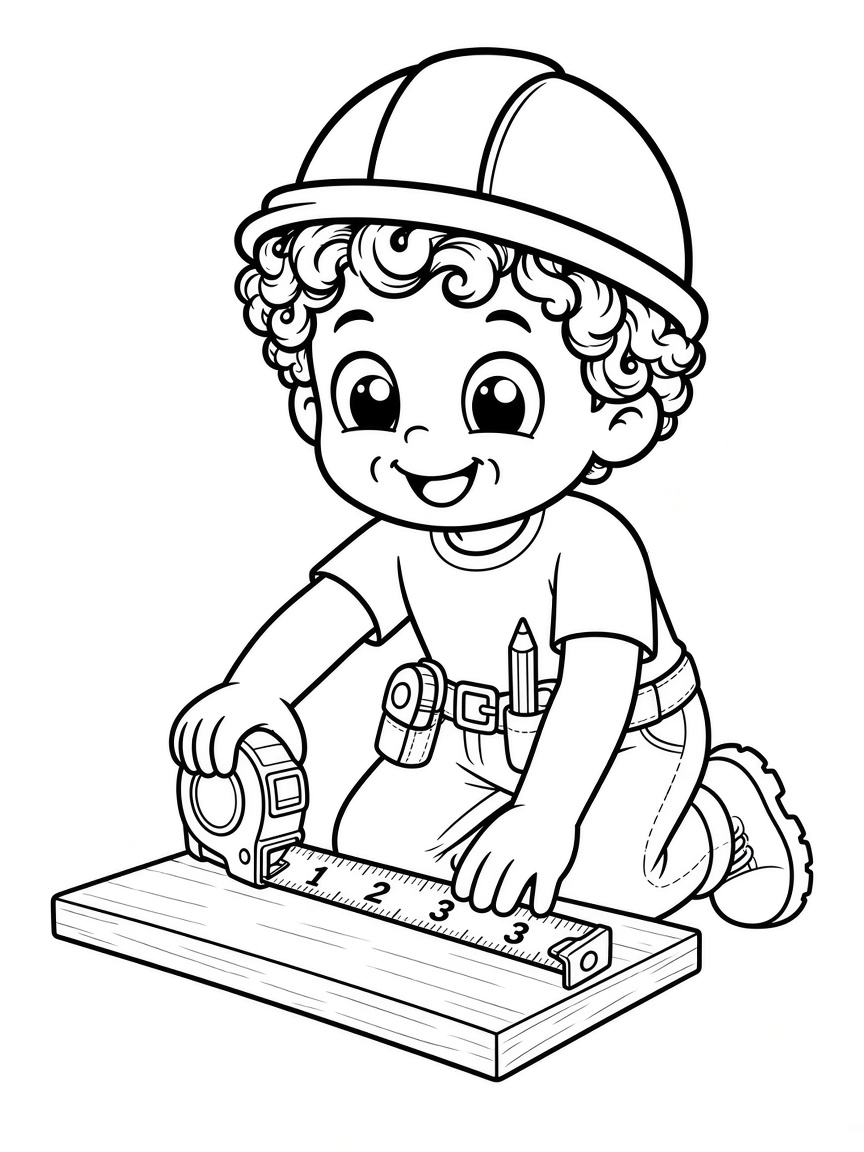
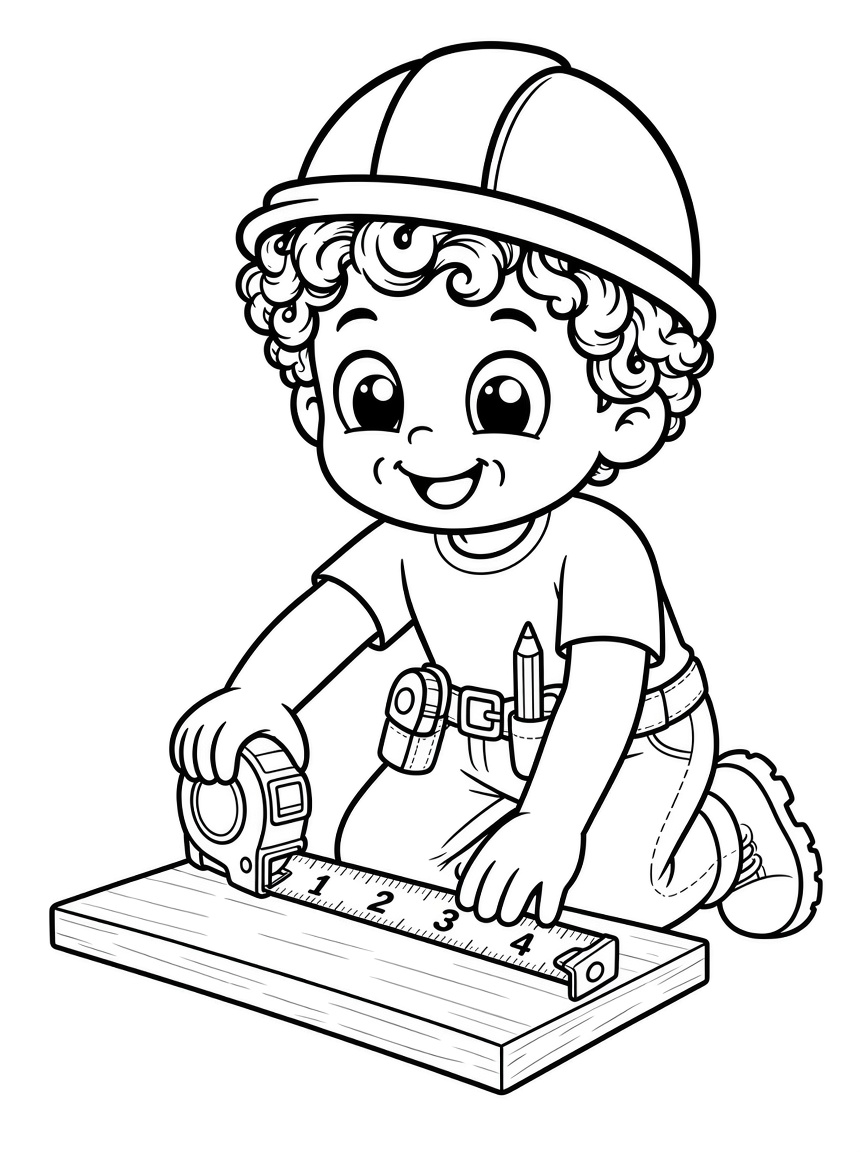
Redraw flagged pages and reshuffle the opening order.
High five is page 2 with Hi I'm Kody. Pegboard is page 3, pointing at tools. Carry boards sit after workshop. Stairs, window, architrave, skirting, frame, tape, level, fence, well, and Your Turn are updated.

Changed region(s): [[0.0312, 0.0312, 0.9688, 0.9688], [0.375, 0.4062, 0.4062, 0.4375]]

diff --git a/kody-the-carpenter/PAGE-MAP.md b/kody-the-carpenter/PAGE-MAP.md
@@ -1,6 +1,6 @@
 # Kody the Carpenter — Page Map
 
-**25 colouring pages, locked 19 Sep 2026.** Cover is Oliver’s favourite designed photo, not a generated illustration.
+**25 colouring pages, locked.** Cover is Oliver’s favourite designed photo, not a generated illustration.
 
 Print file: **A5, 50 pages, single-sided** (25 art + 25 blank backs).
 
@@ -8,35 +8,35 @@ Print file: **A5, 50 pages, single-sided** (25 art + 25 blank backs).
 
 ## Locked 25 (book order)
 
-First 16 from Oliver’s list. Last 9 in the order he confirmed: 21, 22, 32, 33, 23, 24, 25, 26, 30.
+High five is page 2 with “Hi! I'm Kody.” Pegboard is page 3, pointing at tools. Carry boards sit after workshop.
 
 | Book | Catalog # | Page | Review file |
 | --- | --- | --- | --- |
 | 1 | 1 | This book belongs to | `pages/review/r01-belongs-to.png` |
-| 2 | 2 | Meet Kody | `pages/review/r02-meet.png` |
-| 3 | 3 | Workshop | `pages/review/r03-workshop.png` |
-| 4 | 6 | Tape measure | `pages/review/r06-tape.png` |
-| 5 | 5 | Saw | `pages/review/r05-saw.png` |
+| 2 | 31 | Hi! I'm Kody / high five | `pages/review/r31-highfive.png` |
+| 3 | 29 | Pegboard, pointing at tools | `pages/review/r29-pegboard.png` |
+| 4 | 2 | Meet Kody | `pages/review/r02-meet.png` |
+| 5 | 3 | Workshop, birdhouse plan | `pages/review/r03-workshop.png` |
 | 6 | 9 | Carry boards | `pages/review/r09-carry.png` |
-| 7 | 7 | Level | `pages/review/r07-level.png` |
-| 8 | 15 | Fence | `pages/review/r15-fence.png` |
-| 9 | 12 | Well, shingles on ladder | `pages/review/r12-well-ladder.png` |
-| 10 | 14 | Doghouse | `pages/review/r14-doghouse.png` |
-| 11 | 18 | Cabinets | `pages/review/r18-cabinets.png` |
-| 12 | 19 | Clean up | `pages/review/r19-cleanup.png` |
-| 13 | 16 | Set a post | `pages/review/r16-post.png` |
-| 14 | 29 | Pegboard | `pages/review/r29-pegboard.png` |
-| 15 | 31 | High five | `pages/review/r31-highfive.png` |
+| 7 | 6 | Tape measure (1–4) | `pages/review/r06-tape.png` |
+| 8 | 5 | Saw | `pages/review/r05-saw.png` |
+| 9 | 7 | Level | `pages/review/r07-level.png` |
+| 10 | 15 | Fence | `pages/review/r15-fence.png` |
+| 11 | 12 | Well, hammering a nail | `pages/review/r12-well-ladder.png` |
+| 12 | 14 | Doghouse | `pages/review/r14-doghouse.png` |
+| 13 | 18 | Cabinets | `pages/review/r18-cabinets.png` |
+| 14 | 19 | Clean up | `pages/review/r19-cleanup.png` |
+| 15 | 16 | Set a post | `pages/review/r16-post.png` |
 | 16 | 17 | Window trim | `pages/review/r17-trim.png` |
 | 17 | 21 | Stairs | `pages/review/r21-stairs.png` |
-| 18 | 22 | Installing a window | `pages/review/r22-window.png` |
-| 19 | 32 | Victorian architrave, mitre | `pages/review/r32-architrave.png` |
+| 18 | 22 | Opening a window | `pages/review/r22-window.png` |
+| 19 | 32 | Victorian architrave, full frame | `pages/review/r32-architrave.png` |
 | 20 | 33 | Simple skirting (no glasses) | `pages/review/r33-skirting.png` |
 | 21 | 23 | Stool | `pages/review/r23-stool.png` |
-| 22 | 24 | Picture frame | `pages/review/r24-frame.png` |
+| 22 | 24 | Hanging a frame, rubber duck | `pages/review/r24-frame.png` |
 | 23 | 25 | Toy box | `pages/review/r25-toybox.png` |
 | 24 | 26 | Bookshelf | `pages/review/r26-bookshelf.png` |
-| 25 | 30 | Your turn | `pages/review/r30-your-turn.png` |
+| 25 | 30 | Your turn, big blank | `pages/review/r30-your-turn.png` |
 
 Oliver reviews this set. Keep / redraw / move notes go against these 25 numbers.
 
@@ -54,7 +54,7 @@ Dropped: hammer, safety, picnic table, carpenter’s square, kneeling well, crou
 | --- | --- | --- |
 | 1 | This book belongs to | `pages/review/r01-belongs-to.png` |
 | 2 | Meet Kody | `pages/review/r02-meet.png` |
-| 3 | Workshop | `pages/review/r03-workshop.png` |
+| 3 | Workshop, birdhouse plan | `pages/review/r03-workshop.png` |
 | 5 | Saw | `pages/review/r05-saw.png` |
 | 6 | Tape measure | `pages/review/r06-tape.png` |
 | 7 | Level | `pages/review/r07-level.png` |
@@ -79,7 +79,12 @@ Dropped: hammer, safety, picnic table, carpenter’s square, kneeling well, crou
 | 33 | Simple skirting (no glasses) | `pages/review/r33-skirting.png` |
 
 Page 23 foot fix: both boots on the ground. No blob on the seat.
-Page 33: no safety glasses. Long fitted skirting on the wall plus a matching profiled piece in his hand.
+Page 2: small text top left, Hi! I'm Kody.
+Page 3: Kody points at the pegboard tools.
+Page 7 tape: numbers 1, 2, 3, 4.
+Page 20 skirting: no glasses. Handheld piece matches the wall profile.
+Page 22: hanging frame with a rubber duck.
+Page 25: oversized blank board.
 
 ---
 

diff --git a/kody-the-carpenter/PROMPT-KIT.md b/kody-the-carpenter/PROMPT-KIT.md
@@ -79,8 +79,10 @@ Kody building [OBJECT], which is finished enough to recognise. He uses [TOOL]. W
 | 8 | lemonade stand with sign | hammer | outline letters LEMONADE, pitcher, 2 cups | assembling |
 | 9 | kid-sized wooden fort with one square window | hammer | blank flag | carrying a board into the door. Not ta-da. |
 | 10 | kid-sized wooden wishing well, bucket, pitched roof | hammer | drawn: `18-well.png` | on a short step ladder, nailing VERTICAL scalloped shingles (tall with rounded bottoms, not horizontal timber) |
-| extra | Victorian door architrave with 45-degree mitre | hammer | review: `r32-architrave.png` | nailing the mitred head corner, stepped ogee casing |
-| extra | long simple skirting, matching board in hand | hammer | review: `r33-skirting.png` | kneeling, NO glasses. Fitted run on the wall plus a profiled piece in his hand |
+| extra | Victorian door architrave, full frame | hammer | review: `r32-architrave.png` | faces the door, nailing complete casing |
+| extra | simple skirting, matching profile in hand | hammer | review: `r33-skirting.png` | kneeling, NO glasses |
+| extra | 4-pane window opening | hands | review: `r22-window.png` | pushing a casement open |
+| extra | hanging picture frame with rubber duck | hands | review: `r24-frame.png` | hanging the frame on the wall |
 
 ---
 
@@ -89,14 +91,14 @@ Kody building [OBJECT], which is finished enough to recognise. He uses [TOOL]. W
 ### Clean up
 Kody sweeping with a broom. Pegboard now has tools hanging in the outlines. Small scrap bin. Happy, not tired.
 
+### High five / Hi I'm Kody
+Close-up of Kody, one hand raised for a high five, hat and belt on, big smile. Small text top left: Hi! I'm Kody.
+
 ### Pegboard
-The workshop pegboard filled: hammer, saw, tape, screwdriver, drill each in a matching outline. Kody standing beside it, small. Big colourable tools.
+The workshop pegboard filled: hammer, saw, tape, screwdriver, drill. Kody pointing at the tools.
 
 ### Your turn
-Kody holding a large blank rectangular board like a sign, facing the viewer, big grin, hard hat and tool belt on. The board is empty so a child can draw on it. No other objects.
-
-### High five
-Close-up of Kody, one hand raised for a high five, hard hat and tool belt on, big smile. Lots of white space.
+Kody holding a HUGE blank rectangle that fills most of the page so a child can draw on it. He peeks over the top. Hard hat on. No writing on the board.
 
 ---
 

diff --git a/kody-the-carpenter/README.md b/kody-the-carpenter/README.md
@@ -7,7 +7,7 @@ This folder is the design kit for the book. Use it to keep every page looking li
 ## What's in here
 
 - `DESIGN-BIBLE.md` — character lock, visual rules, book structure, print specs
-- `PAGE-MAP.md` — locked 25 in book order
+- `PAGE-MAP.md` — locked 25 in book order (high five is page 2, pegboard is page 3)
 - `PROMPT-KIT.md` — copy-paste prompts so AI art stays consistent
 - `TOOLS.md` — free ways to generate more character options
 - `pages/opening/` — first 8 colouring pages
@@ -36,7 +36,7 @@ This folder is the design kit for the book. Use it to keep every page looking li
 
 Review set in `pages/review/`. Cut: square, kneeling well, crouch, lemonade, fort. Stool foot fixed.
 
-Locked 25 in `PAGE-MAP.md`. Still needed: keep/redraw notes, then his cover photo.
+Locked 25 in `PAGE-MAP.md`. High five is page 2. Pegboard is page 3. Carry sits after workshop. Still needed: keep/redraw notes, then cover photo.
 
 ## Start here
 
